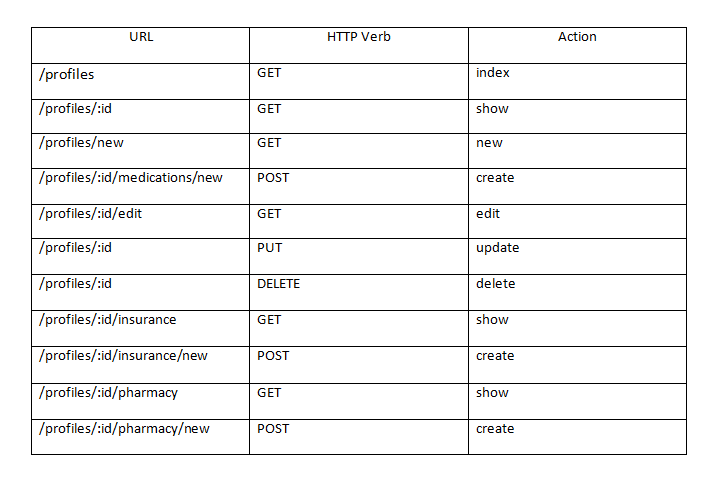
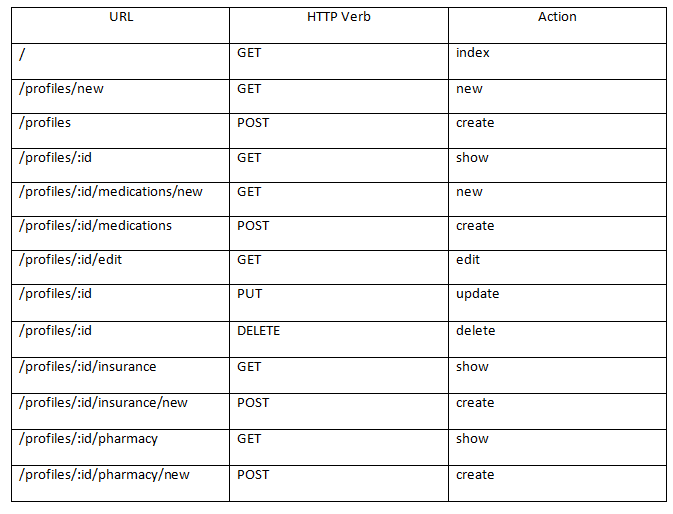
Models/Schema addition

Changed region(s): [[0.0, 0.0, 0.9985, 0.9897], [0.9361, 0.5258, 0.9673, 0.5876]]

diff --git a/models/profile.js b/models/profile.js
@@ -17,12 +17,10 @@ const profileSchema = new Schema(
   {
     name: String,
     dateOfBirth: Date,
-    insurance: {
-      insName: String,
-      memberId: String,
-      binNo: Number,
-      pcn: String
-    },
+    insName: String,
+    memberId: String,
+    binNo: Number,
+    pcn: String,
     medications: [medicationSchema]
   },
   { timeStamps: true }

diff --git a/public/stylesheets/style.css b/public/stylesheets/style.css
@@ -1,6 +1,9 @@
 body {
-  padding: 50px;
+  margin: 0;
   font: 14px "Lucida Grande", Helvetica, Arial, sans-serif;
+  background-color: rgb(217, 217, 217);
+  height: 100vh;
+  grid-template-rows: 80px 1fr;
 }
 
 ul {
@@ -9,4 +12,12 @@ ul {
 
 a {
   color: #00B7FF;
+}
+
+.hide {
+  display: none;
+}
+
+.navbar-expand-lg {
+  padding: 10px 20px;
 }

diff --git a/routes/profiles.js b/routes/profiles.js
@@ -1,8 +1,8 @@
 var express = require('express');
 var router = express.Router();
-var profilesCtrl = require('./controllers/profiles')
+var profilesCtrl = require('../controllers/profiles')
 
 /* GET users listing. */
-router.get('/', profilesCtrl.new);
+router.get('/new', profilesCtrl.new);
 
 module.exports = router;

diff --git a/server.js b/server.js
@@ -47,7 +47,7 @@ app.use(function (req, res, next) {
 
 // ROUTES
 app.use("/", indexRouter);
-app.use("/users", profilesRouter);
+app.use("/profiles", profilesRouter);
 
 // catch 404 and forward to error handler
 app.use(function (req, res, next) {

diff --git a/controllers/profiles.js b/controllers/profiles.js
@@ -1,0 +1,9 @@
+const Profile = require('../models/profile')
+
+module.exports = {
+    new: newProfile
+}
+
+function newProfile(req, res) {
+    res.render('profiles/new', { title: 'New Profile' });
+    }
